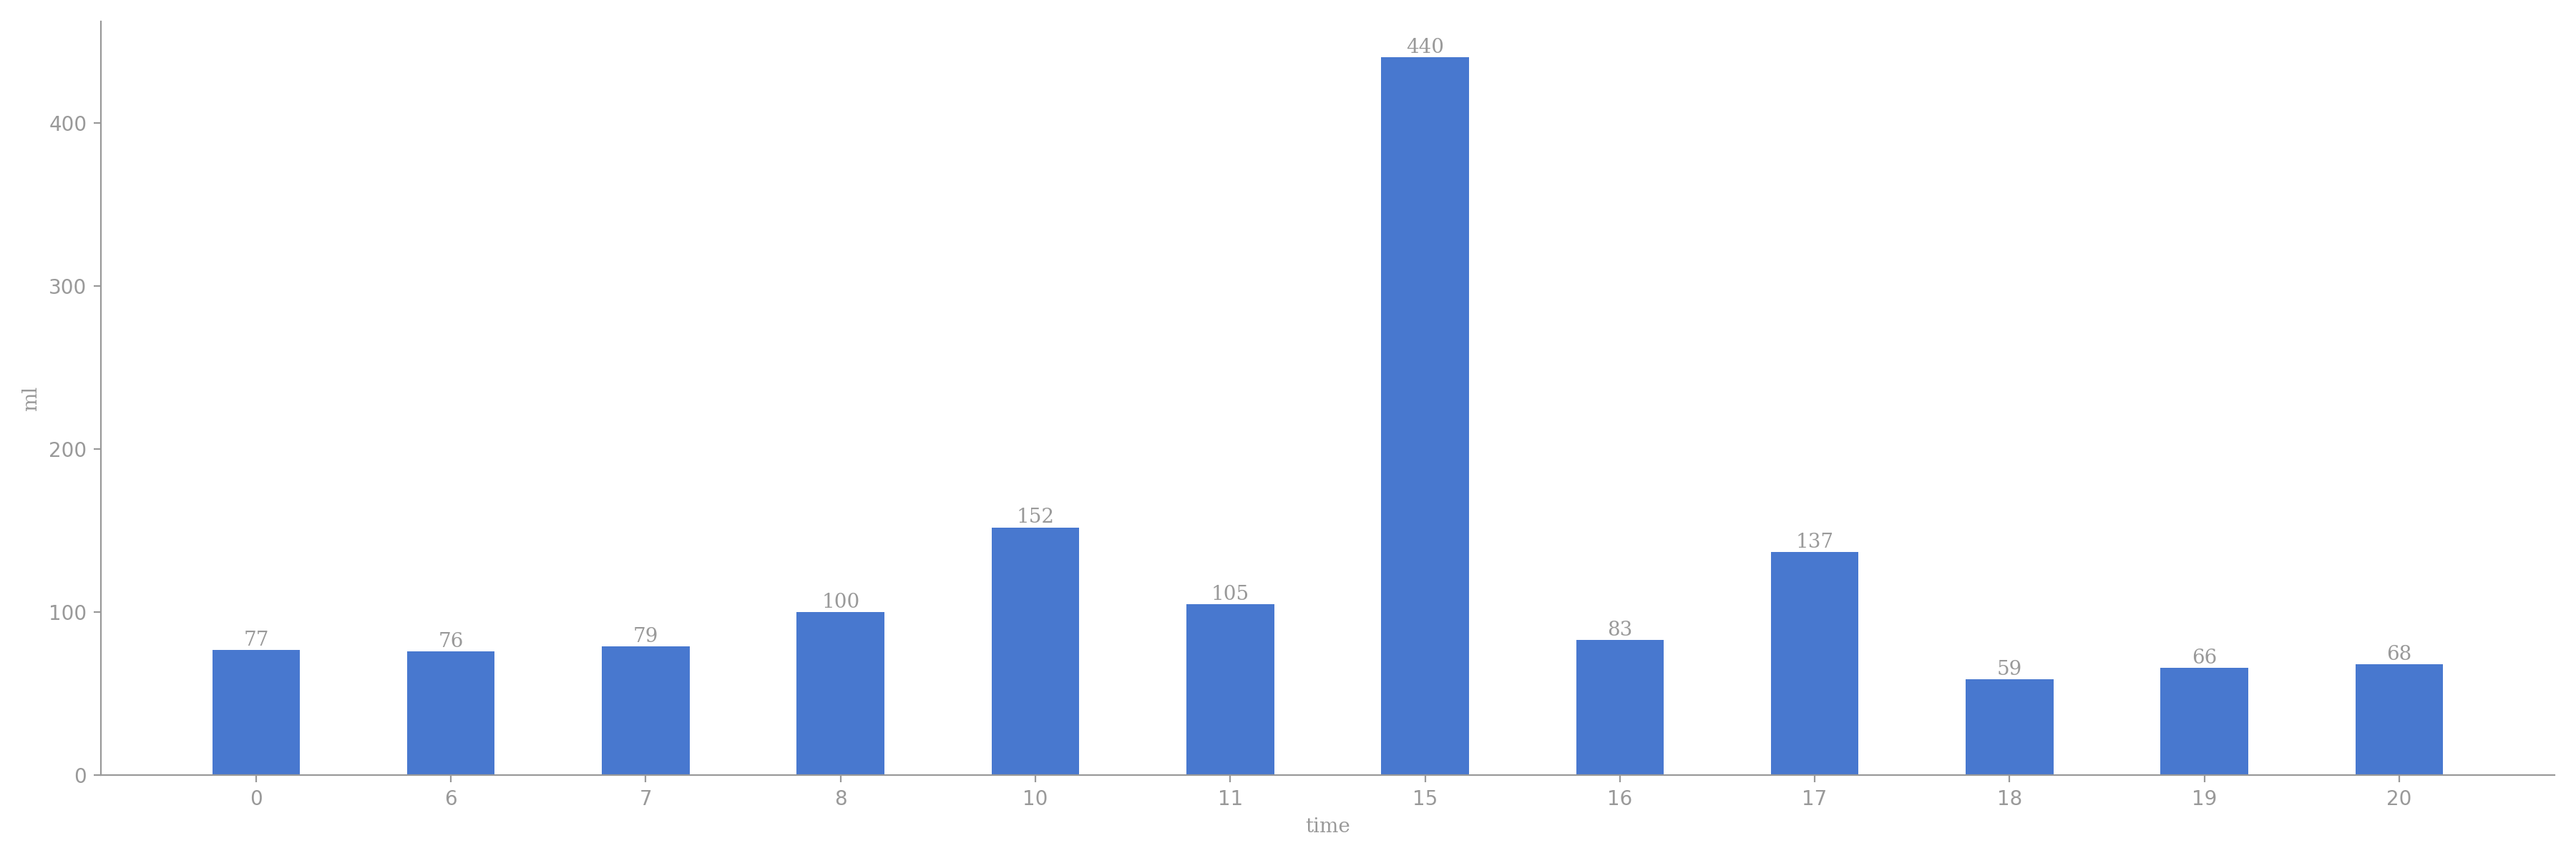
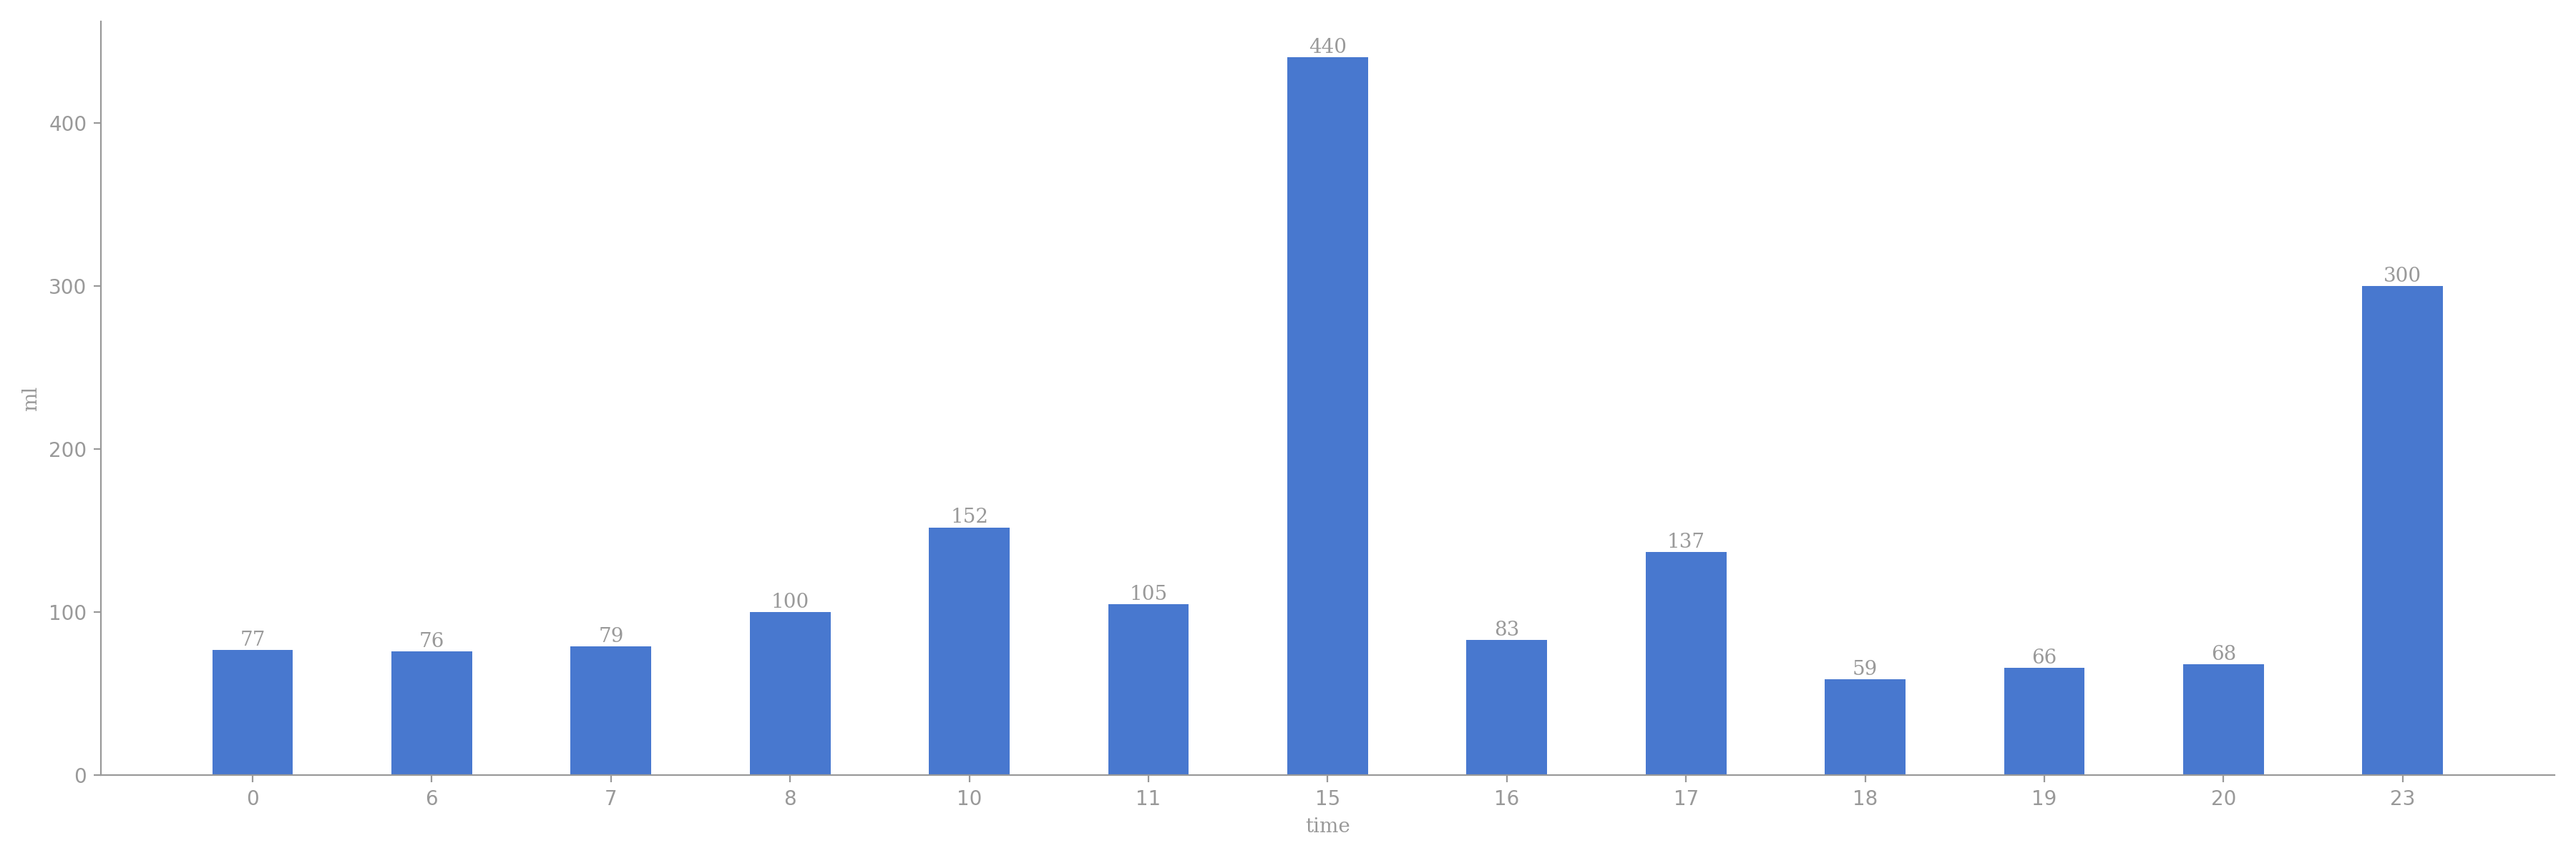
crontab auto git

Changed region(s): [[0.1244, 0.0617, 0.8089, 0.925], [0.84, 0.3083, 0.9644, 0.925]]

diff --git a/README.md b/README.md
@@ -5,12 +5,12 @@
 
 | 今日总饮水量 | 每小时平均饮水量 |
 | :----: | :----: |
-| 1442 | 120 |
+| 1742 | 134 |
 </div>
 
-| 日期 | 00:18:20 | 00:45:04 | 06:38:29 | 07:50:22 | 08:13:08 | 08:57:42 | 10:14:19 | 10:38:41 | 11:04:06 | 11:36:49 | 15:01:42 | 15:05:48 | 15:12:33 | 16:22:27 | 17:00:21 | 17:35:21 | 18:15:13 | 19:39:33 | 20:12:35 |
-| :----: | :----: | :----: | :----: | :----: | :----: | :----: | :----: | :----: | :----: | :----: | :----: | :----: | :----: | :----: | :----: | :----: | :----: | :----: | :----: |
-| 2026-09-23 | 39 | 38 | 76 | 79 | 32 | 68 | 50 | 102 | 37 | 68 | 300 | 74 | 66 | 83 | 69 | 68 | 59 | 66 | 68 |
+| 日期 | 00:18:20 | 00:45:04 | 06:38:29 | 07:50:22 | 08:13:08 | 08:57:42 | 10:14:19 | 10:38:41 | 11:04:06 | 11:36:49 | 15:01:42 | 15:05:48 | 15:12:33 | 16:22:27 | 17:00:21 | 17:35:21 | 18:15:13 | 19:39:33 | 20:12:35 | 23:01:33 |
+| :----: | :----: | :----: | :----: | :----: | :----: | :----: | :----: | :----: | :----: | :----: | :----: | :----: | :----: | :----: | :----: | :----: | :----: | :----: | :----: | :----: |
+| 2026-09-23 | 39 | 38 | 76 | 79 | 32 | 68 | 50 | 102 | 37 | 68 | 300 | 74 | 66 | 83 | 69 | 68 | 59 | 66 | 68 | 300 |
 
 # 近30日饮水数据
 
